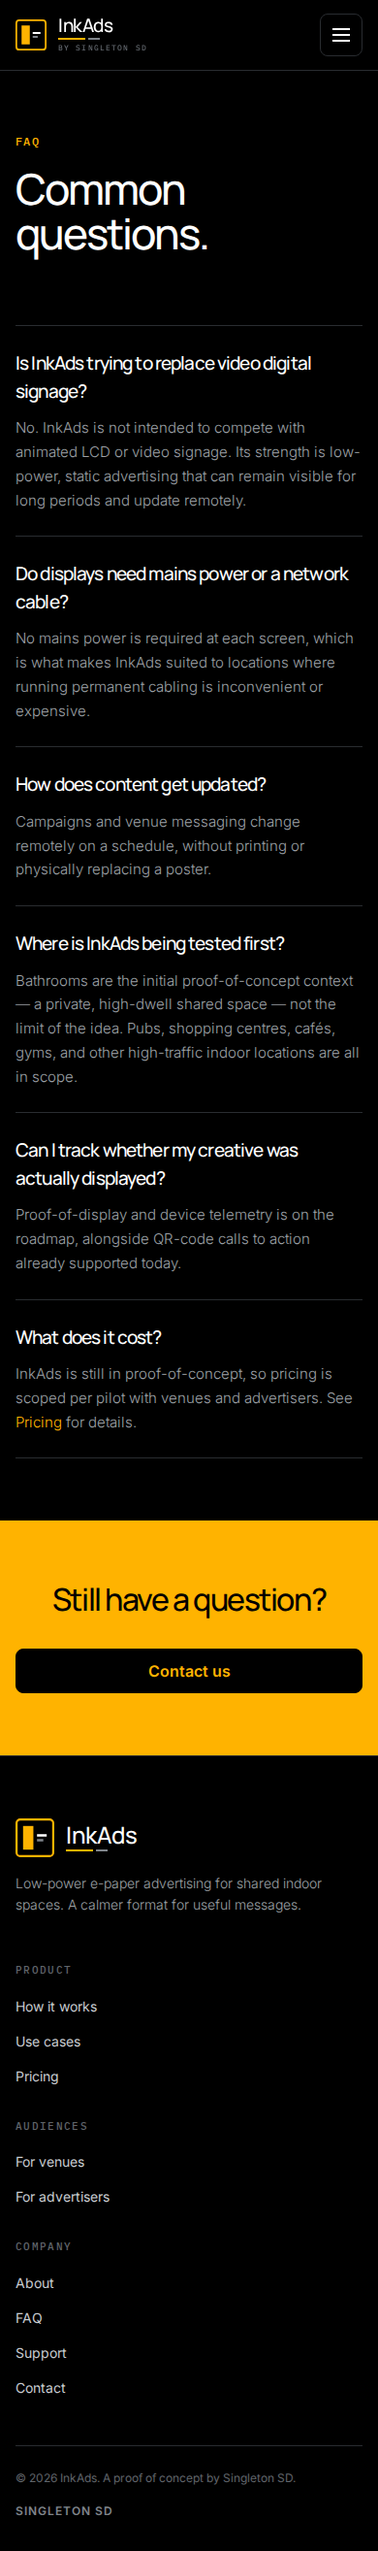
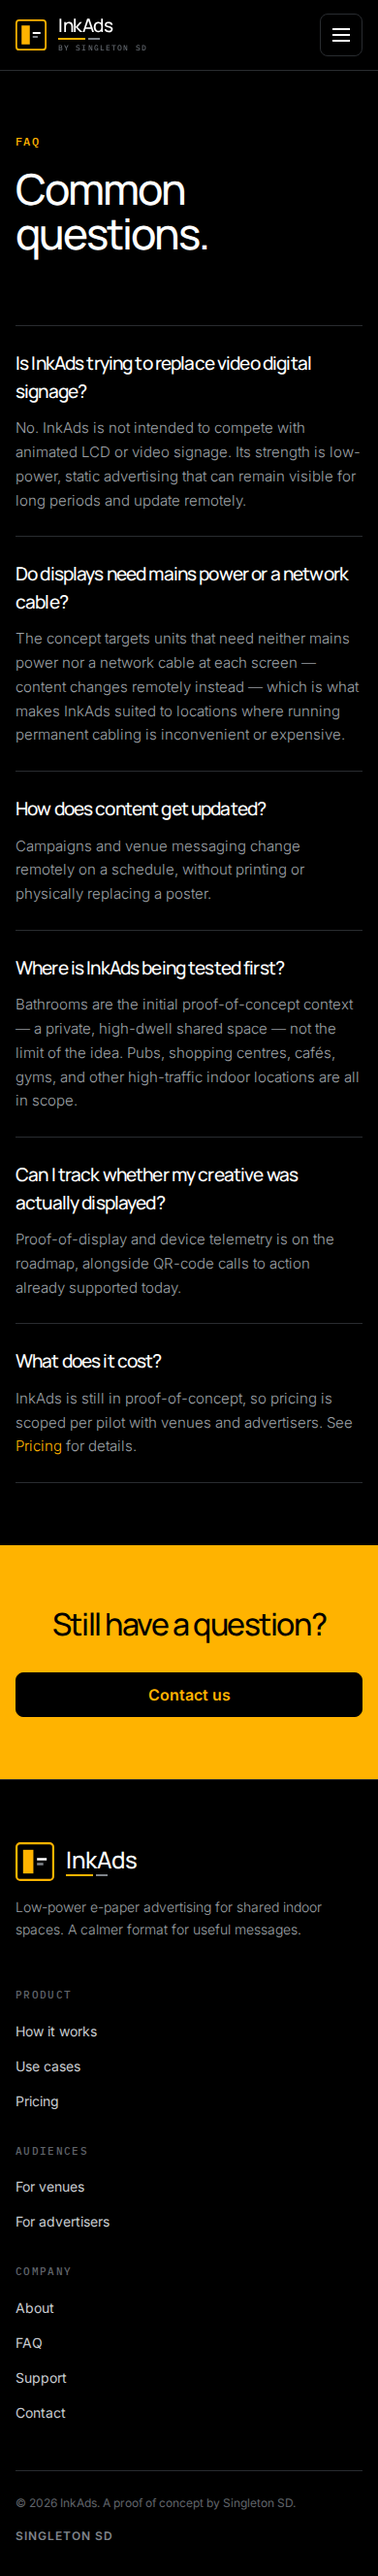
Deploy preview for PR 45 🛫

diff --git a/pr-preview/pr-45/faq/index.html b/pr-preview/pr-45/faq/index.html
@@ -1,1 +1,1 @@
-<!DOCTYPE html><html lang="en-AU"><head><meta charset="utf-8"><meta name="viewport" content="width=device-width"><meta name="generator" content="Astro v7.2.3"><meta name="description" content="Common questions about InkAds low-power e-paper advertising for venues and advertisers."><meta name="robots" content="index,follow"><meta name="theme-color" content="#ffb300"><link rel="canonical" href="https://inkads.poc.singletonsd.com/pr-preview/pr-45/faq/"><link rel="icon" type="image/svg+xml" href="/pr-preview/pr-45/favicon.svg"><link rel="icon" type="image/x-icon" href="/pr-preview/pr-45/favicon.ico"><title>FAQ | InkAds</title><!-- Open Graph --><meta property="og:title" content="FAQ | InkAds"><meta property="og:description" content="Common questions about InkAds low-power e-paper advertising for venues and advertisers."><meta property="og:url" content="https://inkads.poc.singletonsd.com/pr-preview/pr-45/faq/"><meta property="og:type" content="website"><meta property="og:site_name" content="InkAds"><meta property="og:image" content="https://inkads.poc.singletonsd.com/favicon.svg"><meta property="og:image:alt" content="InkAds logo"><!-- Twitter --><meta name="twitter:card" content="summary_large_image"><meta name="twitter:title" content="FAQ | InkAds"><meta name="twitter:description" content="Common questions about InkAds low-power e-paper advertising for venues and advertisers."><meta name="twitter:image" content="https://inkads.poc.singletonsd.com/favicon.svg"><meta name="twitter:image:alt" content="InkAds logo"><!-- Structured data --><script type="application/ld+json">{"@context":"https://schema.org","@type":"WebSite","url":"https://inkads.poc.singletonsd.com/pr-preview/pr-45/faq/","name":"InkAds","description":"Common questions about InkAds low-power e-paper advertising for venues and advertisers."}</script><link rel="stylesheet" href="/pr-preview/pr-45/_astro/BaseLayout.CVFCNkFA.css"></head><body><a class="skip-link" href="#main-content">Skip to content</a><header class="site-header" data-astro-cid-fzpbxy5g><div class="shell site-header__inner" data-astro-cid-fzpbxy5g><a class="brand-lockup" href="/pr-preview/pr-45/" aria-label="InkAds home"><img class="brand-lockup__icon" src="/pr-preview/pr-45/brand/icon-dark.svg" alt="" width="32" height="32"><span class="brand-lockup__text"><span class="brand-lockup__wordmark">InkAds</span><span class="brand-lockup__underline" aria-hidden="true"><span></span><span></span></span><span class="brand-lockup__byline">by Singleton SD</span></span></a><button class="site-header__menu-toggle" type="button" aria-expanded="false" aria-controls="site-primary-nav" data-nav-toggle data-astro-cid-fzpbxy5g><span class="sr-only" data-astro-cid-fzpbxy5g>Menu</span><span aria-hidden="true" data-astro-cid-fzpbxy5g></span></button><nav id="site-primary-nav" class="site-header__nav" aria-label="Primary navigation" data-nav-panel data-astro-cid-fzpbxy5g><div class="site-header__links" data-astro-cid-fzpbxy5g><a href="/pr-preview/pr-45/how-it-works" data-astro-cid-fzpbxy5g>How it works</a><a href="/pr-preview/pr-45/places" data-astro-cid-fzpbxy5g>Use cases</a><a href="/pr-preview/pr-45/venues" data-astro-cid-fzpbxy5g>Venues</a><a href="/pr-preview/pr-45/advertisers" data-astro-cid-fzpbxy5g>Advertisers</a><a href="/pr-preview/pr-45/pricing" data-astro-cid-fzpbxy5g>Pricing</a><a href="/pr-preview/pr-45/about" data-astro-cid-fzpbxy5g>About</a></div><a class="button-link button-link--primary" href="/pr-preview/pr-45/contact"><span>Request a demo</span></a></nav></div></header><script type="module">function e(){let e=document.querySelector(`[data-nav-toggle]`),t=document.querySelector(`[data-nav-panel]`);!e||!t||e.addEventListener(`click`,()=>{let n=t.classList.toggle(`is-open`);e.setAttribute(`aria-expanded`,n?`true`:`false`)})}e(),document.addEventListener(`astro:page-load`,e);</script><main id="main-content"><section class="shell" aria-labelledby="page-title"><div class="page-hero"><div><p class="eyebrow">FAQ</p><h1 id="page-title">Common questions.</h1><div class="page-hero__actions"></div></div><ul class="faq-list" role="list"><li class="faq-item"><h3>Is InkAds trying to replace video digital signage?</h3><p>No. InkAds is not intended to compete with animated LCD or video signage. Its strength is low-power, static advertising that can remain visible for long periods and update remotely.</p></li><li class="faq-item"><h3>Do displays need mains power or a network cable?</h3><p>No mains power is required at each screen, which is what makes InkAds suited to locations where running permanent cabling is inconvenient or expensive.</p></li><li class="faq-item"><h3>How does content get updated?</h3><p>Campaigns and venue messaging change remotely on a schedule, without printing or physically replacing a poster.</p></li><li class="faq-item"><h3>Where is InkAds being tested first?</h3><p>Bathrooms are the initial proof-of-concept context — a private, high-dwell shared space — not the limit of the idea. Pubs, shopping centres, cafés, gyms, and other high-traffic indoor locations are all in scope.</p></li><li class="faq-item"><h3>Can I track whether my creative was actually displayed?</h3><p>Proof-of-display and device telemetry is on the roadmap, alongside QR-code calls to action already supported today.</p></li><li class="faq-item"><h3>What does it cost?</h3><p>InkAds is still in proof-of-concept, so pricing is scoped per pilot with venues and advertisers. See <a href="/pr-preview/pr-45/pricing">Pricing</a> for details.</p></li></ul></div></section><section class="cta-band cta-band--brand" aria-labelledby="faq-cta-title"><div class="shell"><h2 id="faq-cta-title">Still have a question?</h2><div class="cta-band__actions"><a class="button-link button-link--inverse" href="/pr-preview/pr-45/contact"><span>Contact us</span></a></div></div></section></main><footer class="site-footer"><div class="shell"><div class="site-footer__top"><div class="site-footer__brand"><a class="brand-lockup brand-lockup--footer" href="/pr-preview/pr-45/" aria-label="InkAds home"><img class="brand-lockup__icon" src="/pr-preview/pr-45/brand/icon-dark.svg" alt="" width="40" height="40"><span class="brand-lockup__text"><span class="brand-lockup__wordmark">InkAds</span><span class="brand-lockup__underline" aria-hidden="true"><span></span><span></span></span></span></a><p class="site-footer__tagline">Low-power e-paper advertising for shared indoor spaces. A calmer format for useful messages.</p></div><nav class="site-footer__columns" aria-label="Footer"><div class="site-footer__column"><h2>Product</h2><ul><li><a href="/pr-preview/pr-45/how-it-works">How it works</a></li><li><a href="/pr-preview/pr-45/places">Use cases</a></li><li><a href="/pr-preview/pr-45/pricing">Pricing</a></li></ul></div><div class="site-footer__column"><h2>Audiences</h2><ul><li><a href="/pr-preview/pr-45/venues">For venues</a></li><li><a href="/pr-preview/pr-45/advertisers">For advertisers</a></li></ul></div><div class="site-footer__column"><h2>Company</h2><ul><li><a href="/pr-preview/pr-45/about">About</a></li><li><a href="/pr-preview/pr-45/faq">FAQ</a></li><li><a href="/pr-preview/pr-45/support">Support</a></li><li><a href="/pr-preview/pr-45/contact">Contact</a></li></ul></div></nav></div><div class="site-footer__legal"><p>© 2026 InkAds. A proof of concept by Singleton SD.</p><a class="site-footer__credit" href="https://singletonsd.com" rel="noreferrer">Singleton SD</a></div></div></footer></body></html>
+<!DOCTYPE html><html lang="en-AU"><head><meta charset="utf-8"><meta name="viewport" content="width=device-width"><meta name="generator" content="Astro v7.2.3"><meta name="description" content="Common questions about InkAds low-power e-paper advertising for venues and advertisers."><meta name="robots" content="index,follow"><meta name="theme-color" content="#ffb300"><link rel="canonical" href="https://inkads.poc.singletonsd.com/pr-preview/pr-45/faq/"><link rel="icon" type="image/svg+xml" href="/pr-preview/pr-45/favicon.svg"><link rel="icon" type="image/x-icon" href="/pr-preview/pr-45/favicon.ico"><title>FAQ | InkAds</title><!-- Open Graph --><meta property="og:title" content="FAQ | InkAds"><meta property="og:description" content="Common questions about InkAds low-power e-paper advertising for venues and advertisers."><meta property="og:url" content="https://inkads.poc.singletonsd.com/pr-preview/pr-45/faq/"><meta property="og:type" content="website"><meta property="og:site_name" content="InkAds"><meta property="og:image" content="https://inkads.poc.singletonsd.com/favicon.svg"><meta property="og:image:alt" content="InkAds logo"><!-- Twitter --><meta name="twitter:card" content="summary_large_image"><meta name="twitter:title" content="FAQ | InkAds"><meta name="twitter:description" content="Common questions about InkAds low-power e-paper advertising for venues and advertisers."><meta name="twitter:image" content="https://inkads.poc.singletonsd.com/favicon.svg"><meta name="twitter:image:alt" content="InkAds logo"><!-- Structured data --><script type="application/ld+json">{"@context":"https://schema.org","@type":"WebSite","url":"https://inkads.poc.singletonsd.com/pr-preview/pr-45/faq/","name":"InkAds","description":"Common questions about InkAds low-power e-paper advertising for venues and advertisers."}</script><link rel="stylesheet" href="/pr-preview/pr-45/_astro/BaseLayout.CVFCNkFA.css"></head><body><a class="skip-link" href="#main-content">Skip to content</a><header class="site-header" data-astro-cid-fzpbxy5g><div class="shell site-header__inner" data-astro-cid-fzpbxy5g><a class="brand-lockup" href="/pr-preview/pr-45/" aria-label="InkAds home"><img class="brand-lockup__icon" src="/pr-preview/pr-45/brand/icon-dark.svg" alt="" width="32" height="32"><span class="brand-lockup__text"><span class="brand-lockup__wordmark">InkAds</span><span class="brand-lockup__underline" aria-hidden="true"><span></span><span></span></span><span class="brand-lockup__byline">by Singleton SD</span></span></a><button class="site-header__menu-toggle" type="button" aria-expanded="false" aria-controls="site-primary-nav" data-nav-toggle data-astro-cid-fzpbxy5g><span class="sr-only" data-astro-cid-fzpbxy5g>Menu</span><span aria-hidden="true" data-astro-cid-fzpbxy5g></span></button><nav id="site-primary-nav" class="site-header__nav" aria-label="Primary navigation" data-nav-panel data-astro-cid-fzpbxy5g><div class="site-header__links" data-astro-cid-fzpbxy5g><a href="/pr-preview/pr-45/how-it-works" data-astro-cid-fzpbxy5g>How it works</a><a href="/pr-preview/pr-45/places" data-astro-cid-fzpbxy5g>Use cases</a><a href="/pr-preview/pr-45/venues" data-astro-cid-fzpbxy5g>Venues</a><a href="/pr-preview/pr-45/advertisers" data-astro-cid-fzpbxy5g>Advertisers</a><a href="/pr-preview/pr-45/pricing" data-astro-cid-fzpbxy5g>Pricing</a><a href="/pr-preview/pr-45/about" data-astro-cid-fzpbxy5g>About</a></div><a class="button-link button-link--primary" href="/pr-preview/pr-45/contact"><span>Request a demo</span></a></nav></div></header><script type="module">function e(){let e=document.querySelector(`[data-nav-toggle]`),t=document.querySelector(`[data-nav-panel]`);!e||!t||e.addEventListener(`click`,()=>{let n=t.classList.toggle(`is-open`);e.setAttribute(`aria-expanded`,n?`true`:`false`)})}e(),document.addEventListener(`astro:page-load`,e);</script><main id="main-content"><section class="shell" aria-labelledby="page-title"><div class="page-hero"><div><p class="eyebrow">FAQ</p><h1 id="page-title">Common questions.</h1><div class="page-hero__actions"></div></div><ul class="faq-list" role="list"><li class="faq-item"><h3>Is InkAds trying to replace video digital signage?</h3><p>No. InkAds is not intended to compete with animated LCD or video signage. Its strength is low-power, static advertising that can remain visible for long periods and update remotely.</p></li><li class="faq-item"><h3>Do displays need mains power or a network cable?</h3><p>The concept targets units that need neither mains power nor a network cable at each screen — content changes remotely instead — which is what makes InkAds suited to locations where running permanent cabling is inconvenient or expensive.</p></li><li class="faq-item"><h3>How does content get updated?</h3><p>Campaigns and venue messaging change remotely on a schedule, without printing or physically replacing a poster.</p></li><li class="faq-item"><h3>Where is InkAds being tested first?</h3><p>Bathrooms are the initial proof-of-concept context — a private, high-dwell shared space — not the limit of the idea. Pubs, shopping centres, cafés, gyms, and other high-traffic indoor locations are all in scope.</p></li><li class="faq-item"><h3>Can I track whether my creative was actually displayed?</h3><p>Proof-of-display and device telemetry is on the roadmap, alongside QR-code calls to action already supported today.</p></li><li class="faq-item"><h3>What does it cost?</h3><p>InkAds is still in proof-of-concept, so pricing is scoped per pilot with venues and advertisers. See <a href="/pr-preview/pr-45/pricing">Pricing</a> for details.</p></li></ul></div></section><section class="cta-band cta-band--brand" aria-labelledby="faq-cta-title"><div class="shell"><h2 id="faq-cta-title">Still have a question?</h2><div class="cta-band__actions"><a class="button-link button-link--inverse" href="/pr-preview/pr-45/contact"><span>Contact us</span></a></div></div></section></main><footer class="site-footer"><div class="shell"><div class="site-footer__top"><div class="site-footer__brand"><a class="brand-lockup brand-lockup--footer" href="/pr-preview/pr-45/" aria-label="InkAds home"><img class="brand-lockup__icon" src="/pr-preview/pr-45/brand/icon-dark.svg" alt="" width="40" height="40"><span class="brand-lockup__text"><span class="brand-lockup__wordmark">InkAds</span><span class="brand-lockup__underline" aria-hidden="true"><span></span><span></span></span></span></a><p class="site-footer__tagline">Low-power e-paper advertising for shared indoor spaces. A calmer format for useful messages.</p></div><nav class="site-footer__columns" aria-label="Footer"><div class="site-footer__column"><h2>Product</h2><ul><li><a href="/pr-preview/pr-45/how-it-works">How it works</a></li><li><a href="/pr-preview/pr-45/places">Use cases</a></li><li><a href="/pr-preview/pr-45/pricing">Pricing</a></li></ul></div><div class="site-footer__column"><h2>Audiences</h2><ul><li><a href="/pr-preview/pr-45/venues">For venues</a></li><li><a href="/pr-preview/pr-45/advertisers">For advertisers</a></li></ul></div><div class="site-footer__column"><h2>Company</h2><ul><li><a href="/pr-preview/pr-45/about">About</a></li><li><a href="/pr-preview/pr-45/faq">FAQ</a></li><li><a href="/pr-preview/pr-45/support">Support</a></li><li><a href="/pr-preview/pr-45/contact">Contact</a></li></ul></div></nav></div><div class="site-footer__legal"><p>© 2026 InkAds. A proof of concept by Singleton SD.</p><a class="site-footer__credit" href="https://singletonsd.com" rel="noreferrer">Singleton SD</a></div></div></footer></body></html>

diff --git a/pr-preview/pr-45/support/index.html b/pr-preview/pr-45/support/index.html
@@ -4,4 +4,4 @@ InkAds Entra sign-in experience and related product surfaces.</p>
 <p>During the proof of concept, support is provided by the Singleton SD team — not
 a dedicated ticketing portal. Reach out if you need help with device sign-in,
 venue or advertiser questions, or general product orientation.</p>
-</div></section><section class="shell support-section" aria-labelledby="support-help-title"><div class="section-heading"><div><p class="eyebrow">How we can help</p><h2 id="support-help-title">Practical questions during the pilot.</h2><p class="section-heading__lead">We can point you toward the right next step for sign-in, placement context, or a conversation about the concept.</p></div></div><ul class="process-list"><li class="process-row"><span class="process-row__label">Sign-in help</span><p>Questions about accessing InkAds through the display device flow or related Microsoft Entra sign-in.</p></li><li class="process-row"><span class="process-row__label">Pilot orientation</span><p>Clarifying what the proof of concept covers for venues and advertisers — without unvalidated claims.</p></li><li class="process-row"><span class="process-row__label">General contact</span><p>Anything else about InkAds or Singleton SD can start with a short message via email or the contact page.</p></li></ul></section><section class="shell support-section" aria-labelledby="support-contact-title"><div class="section-heading"><div><p class="eyebrow">Contact path</p><h2 id="support-contact-title">Reach the team.</h2><p class="section-heading__lead">This proof of concept uses email and the contact page only — no support portal.</p></div></div><div class="support-contact"><div class="meta-pair"><p class="meta-pair__label">Email</p><p class="meta-pair__value"><a href="mailto:hello@inkads.poc.singletonsd.com">hello@inkads.poc.singletonsd.com</a></p></div><div class="meta-pair"><p class="meta-pair__label">Status</p><p class="meta-pair__value">Proof of concept · Singleton SD</p></div><p class="support-contact__link"><a class="text-link" href="/pr-preview/pr-45/contact"><span>Or use the contact page</span><span aria-hidden="true">→</span></a></p></div></section><section class="cta-band cta-band--brand" aria-labelledby="cta-title-a2024fe5"><div class="shell"><h2 id="cta-title-a2024fe5">Need a longer conversation?</h2><div class="cta-band__actions"><a class="button-link button-link--inverse" href="mailto:hello@inkads.poc.singletonsd.com"><span>Email support</span></a><a class="button-link button-link--ghost-inverse" href="/pr-preview/pr-45/contact"><span>Go to contact</span></a></div></div></section></main><footer class="site-footer"><div class="shell"><div class="site-footer__top"><div class="site-footer__brand"><a class="brand-lockup brand-lockup--footer" href="/pr-preview/pr-45/" aria-label="InkAds home"><img class="brand-lockup__icon" src="/pr-preview/pr-45/brand/icon-dark.svg" alt="" width="40" height="40"><span class="brand-lockup__text"><span class="brand-lockup__wordmark">InkAds</span><span class="brand-lockup__underline" aria-hidden="true"><span></span><span></span></span></span></a><p class="site-footer__tagline">Low-power e-paper advertising for shared indoor spaces. A calmer format for useful messages.</p></div><nav class="site-footer__columns" aria-label="Footer"><div class="site-footer__column"><h2>Product</h2><ul><li><a href="/pr-preview/pr-45/how-it-works">How it works</a></li><li><a href="/pr-preview/pr-45/places">Use cases</a></li><li><a href="/pr-preview/pr-45/pricing">Pricing</a></li></ul></div><div class="site-footer__column"><h2>Audiences</h2><ul><li><a href="/pr-preview/pr-45/venues">For venues</a></li><li><a href="/pr-preview/pr-45/advertisers">For advertisers</a></li></ul></div><div class="site-footer__column"><h2>Company</h2><ul><li><a href="/pr-preview/pr-45/about">About</a></li><li><a href="/pr-preview/pr-45/faq">FAQ</a></li><li><a href="/pr-preview/pr-45/support">Support</a></li><li><a href="/pr-preview/pr-45/contact">Contact</a></li></ul></div></nav></div><div class="site-footer__legal"><p>© 2026 InkAds. A proof of concept by Singleton SD.</p><a class="site-footer__credit" href="https://singletonsd.com" rel="noreferrer">Singleton SD</a></div></div></footer></body></html>
+</div></section><section class="shell support-section" aria-labelledby="support-help-title"><div class="section-heading"><div><p class="eyebrow">How we can help</p><h2 id="support-help-title">Practical questions during the pilot.</h2><p class="section-heading__lead">We can point you toward the right next step for sign-in, placement context, or a conversation about the concept.</p></div></div><ul class="process-list"><li class="process-row"><span class="process-row__label">Sign-in help</span><p>Questions about accessing InkAds through the display device flow or related Microsoft Entra sign-in.</p></li><li class="process-row"><span class="process-row__label">Pilot orientation</span><p>Clarifying what the proof of concept covers for venues and advertisers — without unvalidated claims.</p></li><li class="process-row"><span class="process-row__label">General contact</span><p>Anything else about InkAds or Singleton SD can start with a short message via email or the contact page.</p></li></ul></section><section class="shell support-section" aria-labelledby="support-contact-title"><div class="section-heading"><div><p class="eyebrow">Contact path</p><h2 id="support-contact-title">Reach the team.</h2><p class="section-heading__lead">This proof of concept uses email and the contact page only — no support portal.</p></div></div><div class="support-contact"><div class="meta-pair"><p class="meta-pair__label">Email</p><p class="meta-pair__value"><a href="mailto:hello@inkads.poc.singletonsd.com">hello@inkads.poc.singletonsd.com</a></p></div><div class="meta-pair"><p class="meta-pair__label">Status</p><p class="meta-pair__value">Proof of concept · Singleton SD</p></div><p class="support-contact__link"><a class="text-link" href="/pr-preview/pr-45/contact"><span>Or use the contact page</span><span aria-hidden="true">→</span></a></p></div></section><section class="cta-band cta-band--brand" aria-labelledby="cta-title-cd18a374"><div class="shell"><h2 id="cta-title-cd18a374">Need a longer conversation?</h2><div class="cta-band__actions"><a class="button-link button-link--inverse" href="mailto:hello@inkads.poc.singletonsd.com"><span>Email support</span></a><a class="button-link button-link--ghost-inverse" href="/pr-preview/pr-45/contact"><span>Go to contact</span></a></div></div></section></main><footer class="site-footer"><div class="shell"><div class="site-footer__top"><div class="site-footer__brand"><a class="brand-lockup brand-lockup--footer" href="/pr-preview/pr-45/" aria-label="InkAds home"><img class="brand-lockup__icon" src="/pr-preview/pr-45/brand/icon-dark.svg" alt="" width="40" height="40"><span class="brand-lockup__text"><span class="brand-lockup__wordmark">InkAds</span><span class="brand-lockup__underline" aria-hidden="true"><span></span><span></span></span></span></a><p class="site-footer__tagline">Low-power e-paper advertising for shared indoor spaces. A calmer format for useful messages.</p></div><nav class="site-footer__columns" aria-label="Footer"><div class="site-footer__column"><h2>Product</h2><ul><li><a href="/pr-preview/pr-45/how-it-works">How it works</a></li><li><a href="/pr-preview/pr-45/places">Use cases</a></li><li><a href="/pr-preview/pr-45/pricing">Pricing</a></li></ul></div><div class="site-footer__column"><h2>Audiences</h2><ul><li><a href="/pr-preview/pr-45/venues">For venues</a></li><li><a href="/pr-preview/pr-45/advertisers">For advertisers</a></li></ul></div><div class="site-footer__column"><h2>Company</h2><ul><li><a href="/pr-preview/pr-45/about">About</a></li><li><a href="/pr-preview/pr-45/faq">FAQ</a></li><li><a href="/pr-preview/pr-45/support">Support</a></li><li><a href="/pr-preview/pr-45/contact">Contact</a></li></ul></div></nav></div><div class="site-footer__legal"><p>© 2026 InkAds. A proof of concept by Singleton SD.</p><a class="site-footer__credit" href="https://singletonsd.com" rel="noreferrer">Singleton SD</a></div></div></footer></body></html>
